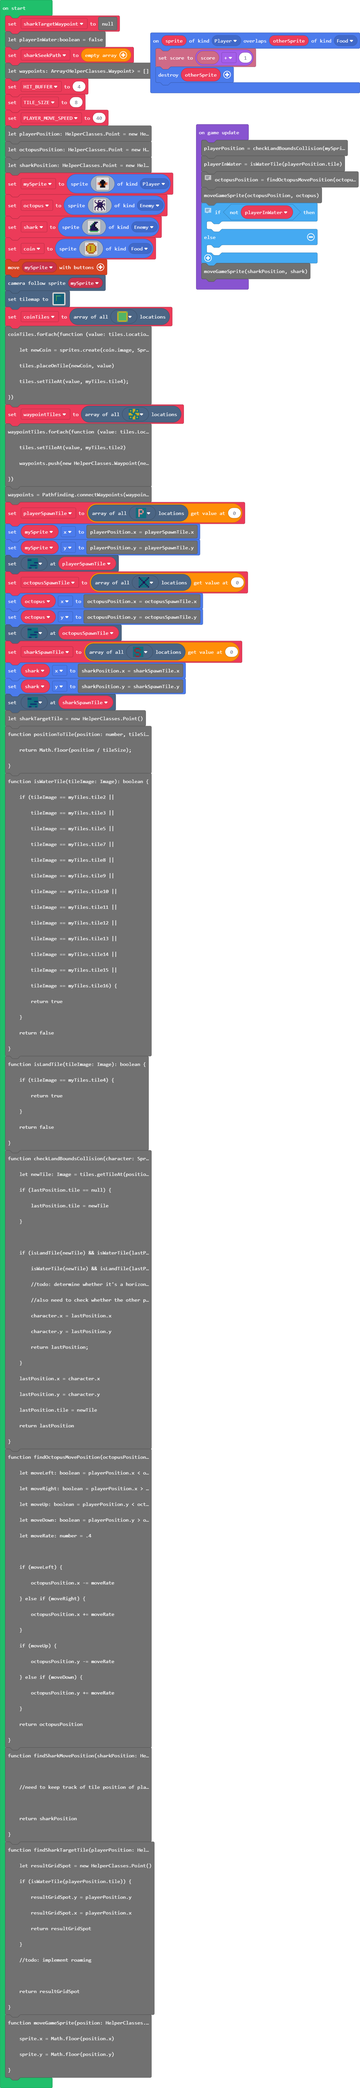
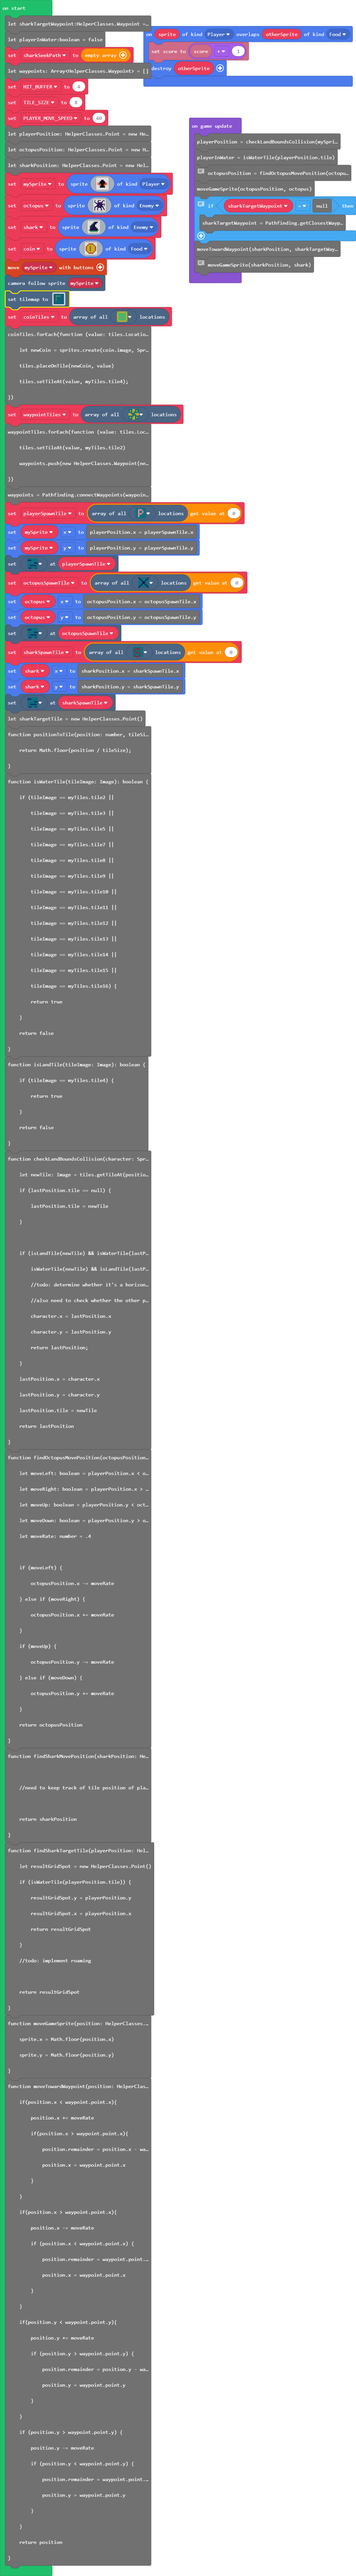
Moving shark but shark teleports instead of moving normally

Changed region(s): [[0.0, 0.0, 1.0, 0.9984], [0.0624, 0.8736, 0.3431, 0.9984]]

diff --git a/main.ts b/main.ts
@@ -482,16 +482,32 @@ function moveGameSprite(position: HelperClasses.Point, sprite: Sprite): void {
 }
 function moveTowardWaypoint(position: HelperClasses.Point, waypoint: HelperClasses.Waypoint, moveRate:number):HelperClasses.Point{
     if(position.x < waypoint.point.x){
-        
+        position.x += moveRate
+        if(position.x > waypoint.point.x){
+            position.remainder = position.x - waypoint.point.x
+            position.x = waypoint.point.x
+        }
     }
     if(position.x > waypoint.point.x){
-
+        position.x -= moveRate
+        if (position.x < waypoint.point.x) {
+            position.remainder = waypoint.point.x - position.x
+            position.x = waypoint.point.x
+        }
     }
     if(position.y < waypoint.point.y){
-
+        position.y += moveRate
+        if (position.y > waypoint.point.y) {
+            position.remainder = position.y - waypoint.point.y
+            position.y = waypoint.point.y
+        }
     }
-    if(position.y > waypoint.point.y){
-
+    if (position.y > waypoint.point.y) {
+        position.y -= moveRate
+        if (position.y < waypoint.point.y) {
+            position.remainder = waypoint.point.y - position.y
+            position.y = waypoint.point.y
+        }
     }
     return position
 }
@@ -511,15 +527,13 @@ moveGameSprite(octopusPosition, octopus)
     //
     // } } sharkPosition =
     // findSharkMovePosition(sharkPosition, sharkSeekPath)
-
-    //if shark is close
-    //target player
-    //if shark is far
-    //pathfind closest waypoint
+    // if shark is close target player if shark is far
+    // pathfind closest waypoint
     if (sharkTargetWaypoint == null) {
         sharkTargetWaypoint = Pathfinding.getClosestWaypoint(sharkPosition, waypoints)
     }
-
-    //once at waypoint determine next waypoint based on player in water or on land
+    moveTowardWaypoint(sharkPosition, sharkTargetWaypoint, PLAYER_MOVE_SPEED)
+// once at waypoint determine next waypoint based on
+    // player in water or on land
     moveGameSprite(sharkPosition, shark)
 })
